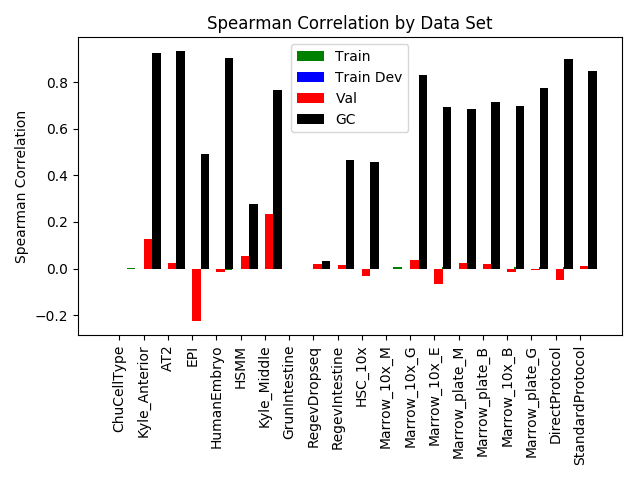
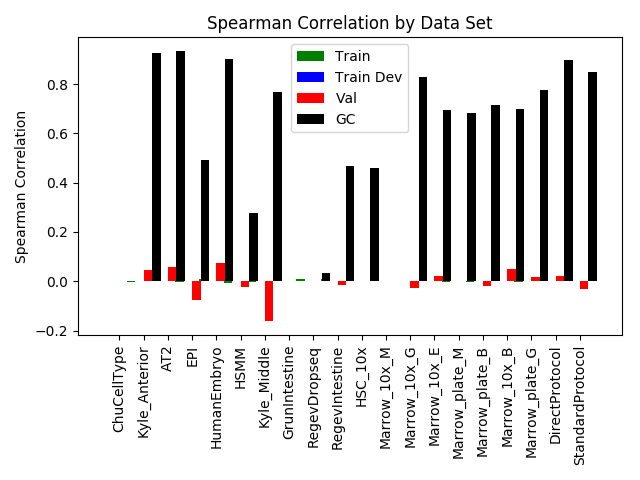
need to go locally to fix bugs

diff --git a/architecture/models/Model.py b/architecture/models/Model.py
@@ -67,7 +67,7 @@ class Model():
         '''
         train_iter_init, val_iter_init, self.input_data = self._prepare_train_val(train_data, val_data)
         self.build()
-        self.saver = tf.train.Saver(max_to_keep=1)
+        saver = tf.train.Saver(max_to_keep=1)
         with tf.Session() as sess:
             sess.run(tf.global_variables_initializer())
             
@@ -88,13 +88,13 @@ class Model():
                 val_metrics = self.run_epoch(sess, val_handle, val_writer, "val")
                 train_metrics = [("Train_" + x[0], x[1]) for x in train_metrics]
                 val_metrics = [("Val_" + x[0], x[1]) for x in val_metrics]
-                bar.add(1, values=train_metrics + val_metrics)
+                bar.update(epoch + 1, values=train_metrics + val_metrics)
                 val_spear = val_metrics[1][1] # Select based on spearman correlation
                 if val_spear > best_spear:
                     best_spear = val_spear
                     if self.verbose:
                         print("\nNew best correlation! Saving model in ./results/weights/weights.ckpt")
-                    self.saver.save(sess, self.config.model_output)
+                    saver.save(sess, self.config.model_output)
                 if self.verbose: print()
 
 
@@ -102,16 +102,14 @@ class Model():
         '''
         @data is a pandas dataframe
         '''
-        #saver = tf.train.Saver(max_to_keep=1)
+        tf.reset_default_graph()        
         inputs = self.input_op(data)
         iterator = inputs.make_initializable_iterator()
-        
         self.input_data = iterator.get_next()
         self.build()
         self.handle = tf.placeholder(tf.string, shape=())
         saver = tf.train.Saver(max_to_keep=1)
         with tf.Session() as sess:
-            sess.run(tf.global_variables_initializer())
             saver.restore(sess, self.config.model_output)
             test_handle = sess.run(iterator.string_handle())
             sess.run(iterator.initializer)
@@ -166,7 +164,6 @@ class Model():
         loss = np.mean([x[0] for x in metrics])
         pred = np.concatenate([x[1] for x in metrics])
         labels = np.concatenate([x[2] for x in metrics])
-        print(np.concatenate([pred, labels], axis=1))
         squared_error = ((pred - labels)**2).mean()
         spearman_corr = st.spearmanr(pred, labels)[0]
         pearson_corr = st.pearsonr(pred, labels)[0][0]

diff --git a/architecture/models/config.py b/architecture/models/config.py
@@ -15,12 +15,12 @@ class Config(object):
         self.name = name
         home = os.path.abspath(os.path.dirname(os.path.dirname(os.path.dirname(__file__))))
         self.output_path = os.path.join(home, 'results', self.name)
-        if os.path.exists(self.output_path):
-            shutil.rmtree(self.output_path)
-        os.mkdir(self.output_path)
         if load:
             self.load_params(os.path.join(self.output_path, 'params.json'))
         else:
+            if os.path.exists(self.output_path):
+                shutil.rmtree(self.output_path)
+            os.mkdir(self.output_path)
             self.n_features = n_features
             self.n_neighbors = n_neighbors
             self.n_layers = n_layers
@@ -34,7 +34,7 @@ class Config(object):
             self.grad_clip = grad_clip
             self.clip_val = clip_val
             self.tensorboard_dir = os.path.join(self.output_path, 'tensorboard/')
-            self.weights_path = os.path.join(self.output_path, 'weights')
+            self.weights_path = os.path.join(self.output_path, 'weights/')
             self.model_output = os.path.join(self.weights_path, 'weights.ckpt')
             self.write_params()
 
@@ -45,7 +45,7 @@ class Config(object):
             params[param] = value
         with open(os.path.join(self.output_path, 'params.json'), 'w') as file:
             json.dump(params, file)
-
+        print(self.output_path)
 
     def load_params(self, filename):
         with open(filename) as f:

diff --git a/evaluate.py b/evaluate.py
@@ -68,14 +68,10 @@ def train_dev_evaluate():
         train_dev_data = train_shuffled.iloc[train_size:-1,:]
         val_data = data.loc[val_set, :]
         param = config.Config("traindev_"+val_set[0][:5], hidden_size=100, n_layers=2,
-                              n_epochs=1000, lambd=1e-6, dropout=.25, lr=3e-5)
+                              n_epochs=100, lambd=1e-6, dropout=.25, lr=3e-5)
         model = Model(param)
         model.fit(train_data, val_data)
-        tf.reset_default_graph()
-        model = Model(config.Config("traindev_"+val_set[0][:5], load=True))
         train_pred = model.predict(train_data)
-        tf.reset_default_graph()
-        model = Model(config.Config("traindev_"+val_set[0][:5], load=True))
         dev_pred = model.predict(train_dev_data)
         val_pred = model.predict(val_data)
         train_corr, _, _ = get_stats(train_pred, train_data)
@@ -83,14 +79,13 @@ def train_dev_evaluate():
 
         for indiv in val_set:
             indiv_data = val_data.loc[indiv, :]
-            tf.reset_default_graph()
-            model = Model(config.Config("traindev_"+val_set[0][:5], load=True))
             val_pred = model.predict(indiv_data)
             corr, mse, gc_corr = get_stats(val_pred, indiv_data)
             test[indiv]['train'] = train_corr
             test[indiv]['dev'] = dev_corr
             test[indiv]['val'] = corr
             test[indiv]['gc'] = gc_corr
+            print(indiv, corr)
 
         tf.reset_default_graph()
 
